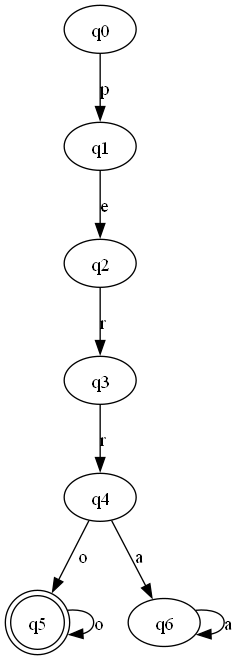
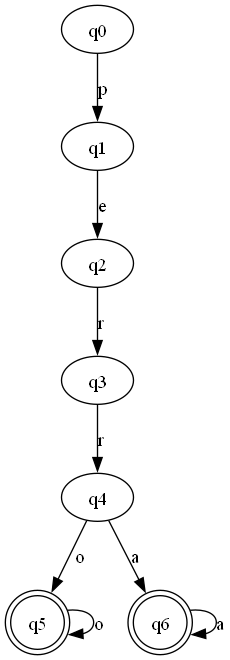
finished

diff --git a/automatas/AFND.py b/automatas/AFND.py
@@ -21,7 +21,7 @@ class AutomataPerro:
             Q: set = {'q0', 'q1', 'q2', 'q3', 'q4', 'q5', 'q6'},
             sigma: set = {'p', 'e', 'r', 'o', 'a'},
             q0: str = 'q0',
-            F: set = {'q5'},
+            F: set = {'q5', 'q6'},
             delta: Callable = delta_perro
     ):
         # Inicialización de los atributos del autómata específico para "perro" o "perrooooo"
